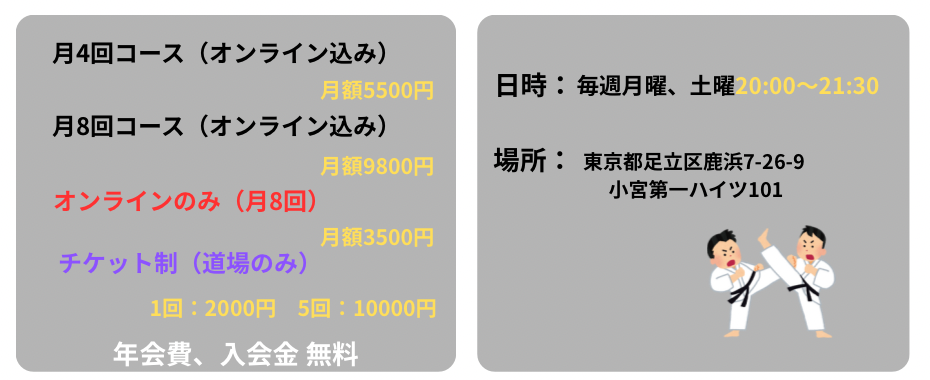
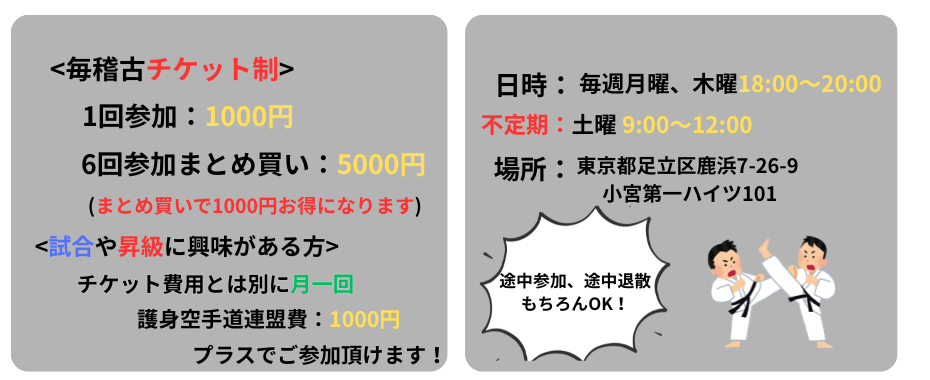
Add files via upload

diff --git a/index.html b/index.html
@@ -201,17 +201,6 @@
 
 <p class="lead">稽古は、準備運動から始まり、突き・蹴り・受けなどの基本動作、ミット打ちで楽しく汗を流した後、護身に役立つ型や軽い対人練習を行います。初心者の方は軽い内容からスタートするので安心! <br>体格差に頼らない技術を無理のない範囲で身につけながら、運動不足解消・<br>リフレッシュにもつながります! </p>
 
-<section id="class-video">
-<div class="wrap">
-<h2>クラスのイメージ</h2>
-<div class="video-container">
-<video autoplay muted loop playsinline poster="online.jpg">
-<source src="online.mp4" type="video/mp4">
-</video>
-</div>
-</div>
-</section>
-
 <section class="class-images" style="margin-top: 40px;">
   <h2>稽古風景</h2>
   <div class="image-row">
@@ -273,6 +262,7 @@
     Facebook
     </a>
 </li>
+<li>2026/2/25 ホームページの「料金について」を修正しました。</li>
 </ul>
 </div>
 </section>
